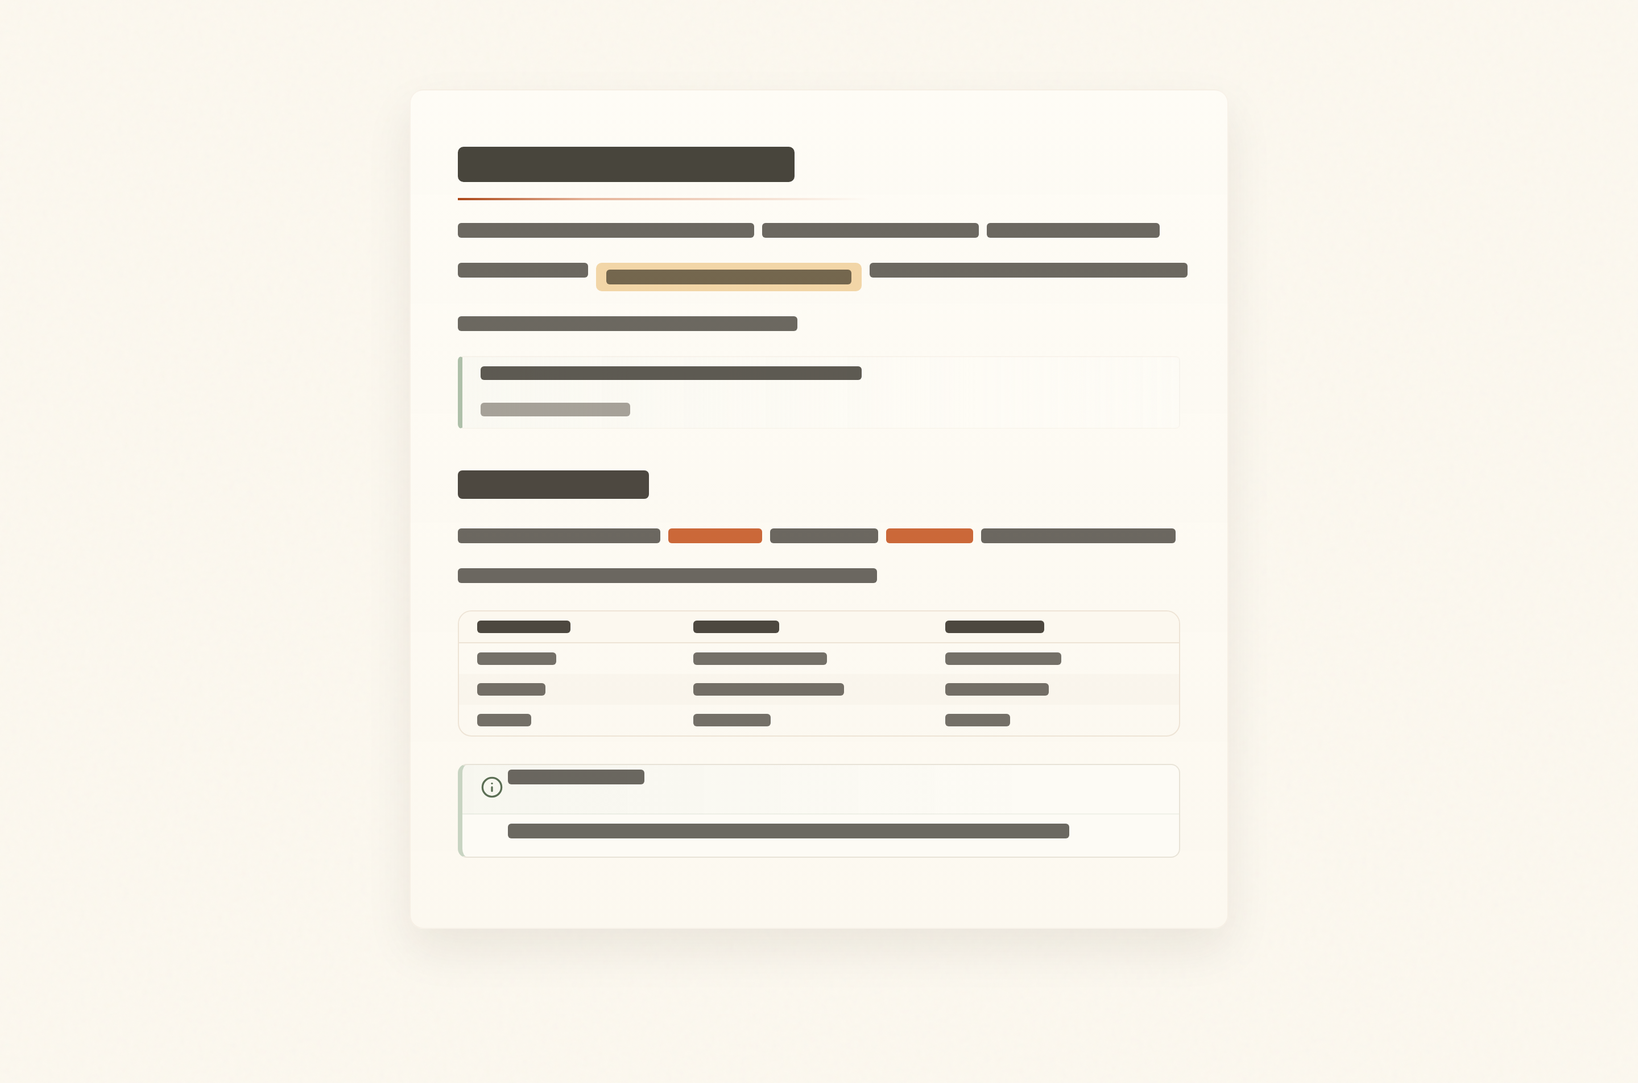
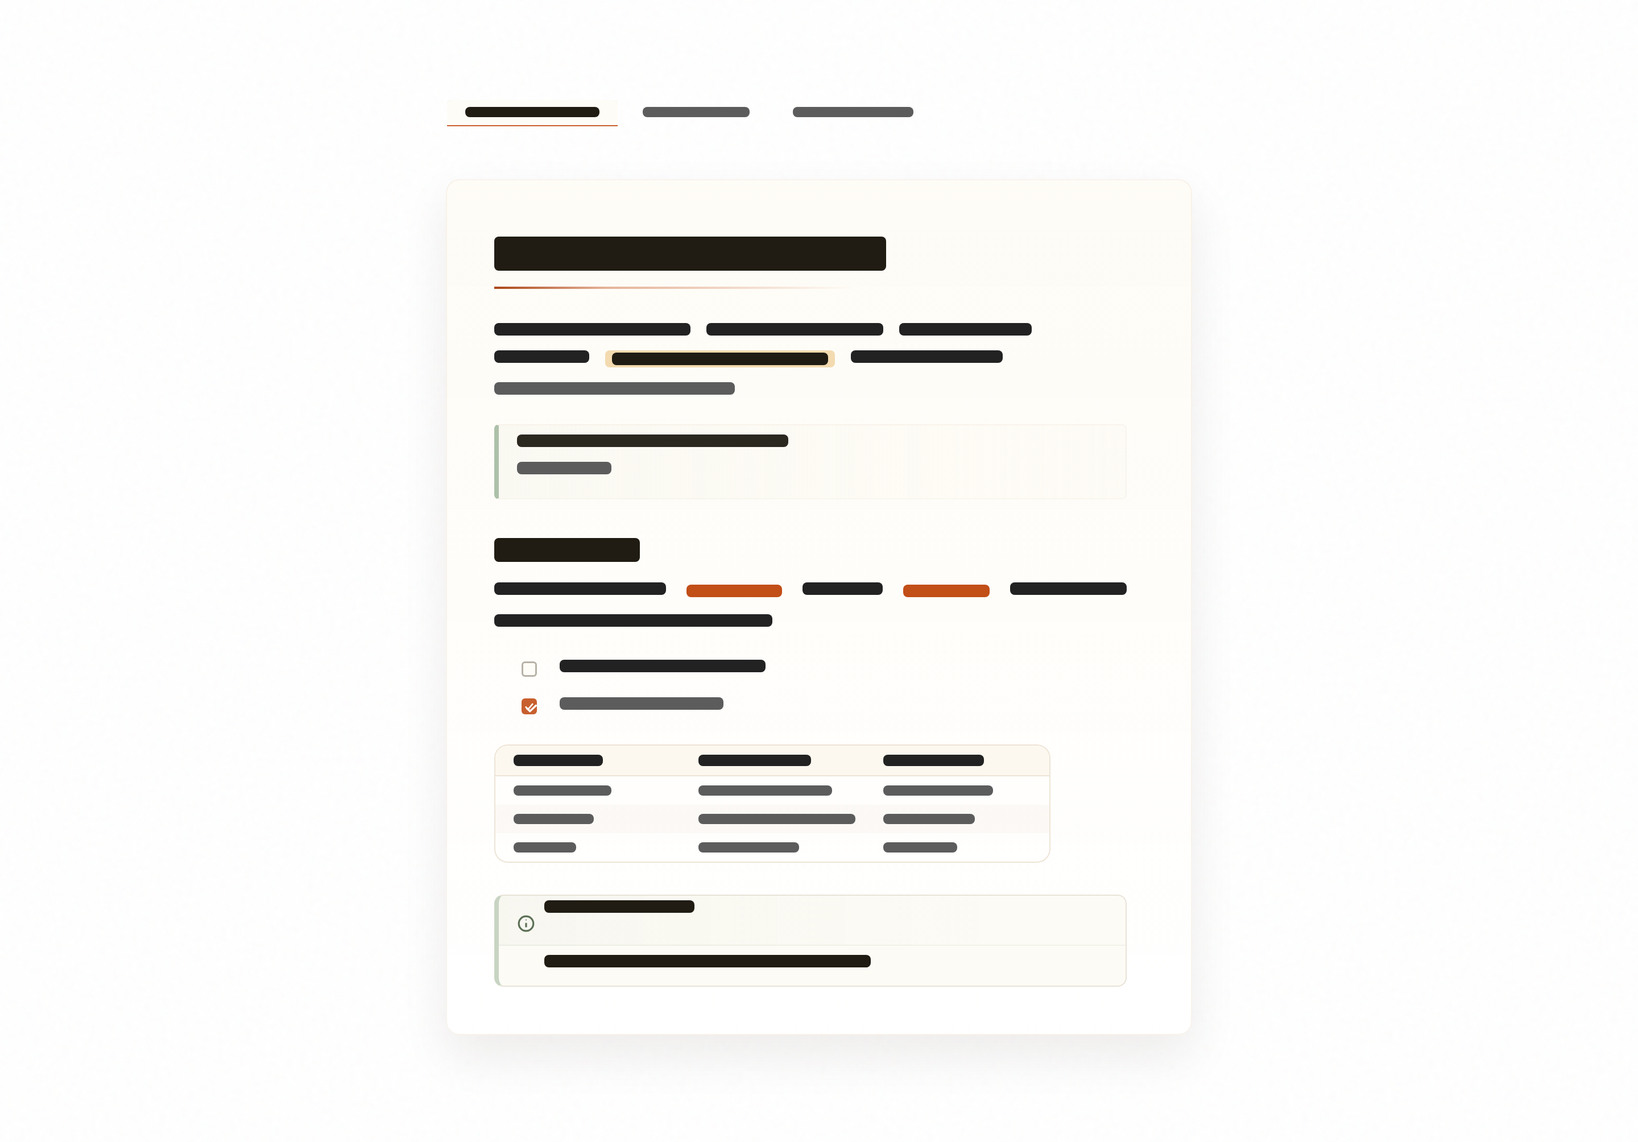
assets: refresh store artwork set
- screenshot.png: regenerated reading-view cover with current 0.13 materials
  (abstract bars, no text - privacy rule unchanged)
- img/brand-banner-1200x800.png + generator: 3:2 brand banner for the
  community site listing (ink wordmark panel + app wireframe, dark tokens
  sampled from the theme itself)
- img/mobile-900x1600.png + generator: 9:16 full-bleed phone screen
  (brand band, long paper, floating navbar)
- generators live next to the masters so future refreshes are one edit
  away; all three render from src/theme.css + core app.css

Changed region(s): [[0.2812, 0.093, 0.7188, 0.8057], [0.25, 0.8367, 0.75, 0.8986]]

diff --git a/img/mobile-generator.html b/img/mobile-generator.html
@@ -1,0 +1,134 @@
+<!doctype html><html class="theme-light"><head><meta charset="utf-8">
+<style>
+  html, body { margin: 0; }
+  body { --font-text-theme: '??'; --font-text-override: '??'; --font-default: sans-serif;
+         --font-text: var(--font-text-override), var(--font-text-theme), var(--font-default);
+         --font-text-size: 16px; }
+  .stage { width: 900px; height: 1600px; position: relative; overflow: hidden;
+           background: var(--background-secondary); }
+  .bar { border-radius: 6px; background: currentColor; }
+  /* brand band */
+  .band { position: absolute; top: 0; left: 0; right: 0; height: 168px;
+          background: rgb(32, 28, 19); color: rgb(252, 248, 239);
+          padding: 30px 40px 0; box-sizing: border-box; }
+  .status { position: absolute; top: 22px; left: 44px; right: 44px; display: flex;
+            justify-content: space-between; }
+  .schip { height: 9px; border-radius: 5px; background: rgba(252, 248, 239, 0.4); }
+  .wordrow { display: flex; align-items: center; justify-content: space-between; margin-top: 34px; }
+  .wordmark { font-family: var(--font-headings, serif); font-weight: var(--font-semibold, 600);
+              font-size: 40px; letter-spacing: -0.01em; }
+  .dots { display: flex; gap: 10px; align-items: center; }
+  .dot { width: 11px; height: 11px; border-radius: 50%; }
+  /* paper */
+  .paper { position: absolute; left: 18px; right: 18px; top: 192px; bottom: -20px;
+           background: var(--background-primary); border-radius: 14px 14px 0 0;
+           border: 1px solid color-mix(in srgb, var(--paper-frame-border) 40%, transparent);
+           border-bottom: 0; padding: 46px 42px; box-sizing: border-box;
+           box-shadow: 0 10px 26px rgba(28, 24, 19, 0.08); }
+  .grp { margin-bottom: 52px; }
+  .row { display: flex; gap: 16px; margin-bottom: 18px; }
+  .b { height: 14px; }
+  .blk { height: 34px; border-radius: 8px; }
+  .task { display: flex; align-items: center; gap: 17px; margin-bottom: 19px; }
+  .chip { width: 23px; height: 23px; border-radius: 7px; flex: none;
+          border: 1.5px solid color-mix(in srgb, var(--border-strong-1) 72%, transparent); }
+  .chip.on { background: var(--interactive-accent); border-color: var(--interactive-accent); }
+  .bcard { border: 1px solid color-mix(in srgb, var(--paper-frame-border) 64%, transparent);
+           border-left: 5px solid color-mix(in srgb, rgb(var(--color-secondary-rgb)) 55%, transparent);
+           border-radius: 12px; background: color-mix(in srgb, var(--panel-surface) 95%, transparent);
+           padding: 22px 26px; }
+  mark { background-color: var(--highlight); color: var(--scrip-ink-strong); border-radius: 6px; padding: 4px 9px; }
+  /* navbar floats over content */
+  .navbar { position: absolute; left: 18px; right: 18px; bottom: 26px; height: 76px;
+            background: var(--layer-1); border-radius: 38px;
+            border: 1px solid color-mix(in srgb, var(--paper-frame-border) 45%, transparent);
+            box-shadow: 0 10px 26px rgba(28, 24, 19, 0.16);
+            display: flex; align-items: center; justify-content: space-around; padding: 0 30px; }
+  .nb { width: 24px; height: 24px; border-radius: 8px; background: var(--text-muted); opacity: 0.75; }
+  .nb.active { background: var(--interactive-accent); opacity: 1; }
+</style>
+<link rel="stylesheet" href="file:///C:/Users/louxi/AppData/Local/Temp/cover/app.css">
+<link rel="stylesheet" href="file:///C:/Users/louxi/Documents/github/obsidian-scriptorium/src/theme.css">
+</head><body class="show-inline-title">
+<div class="stage">
+  <div class="band">
+    <div class="status">
+      <div class="schip" style="width: 74px;"></div>
+      <div style="display: flex; gap: 12px;">
+        <div class="schip" style="width: 24px;"></div>
+        <div class="schip" style="width: 40px;"></div>
+      </div>
+    </div>
+    <div class="wordrow">
+      <div class="wordmark">Scriptorium</div>
+      <div class="dots">
+        <div class="dot" style="background: var(--interactive-accent);"></div>
+        <div class="dot" style="background: rgb(var(--color-secondary-rgb));"></div>
+        <div class="dot" style="background: rgb(227, 163, 59);"></div>
+      </div>
+    </div>
+  </div>
+  <div class="paper">
+    <div class="grp" style="margin-bottom: 40px;">
+      <div class="bar blk" style="width: 76%; background: var(--scrip-ink-strong);"></div>
+    </div>
+    <div class="grp">
+      <div class="row"><div class="bar b" style="width: 44%;"></div><div class="bar b" style="width: 36%;"></div></div>
+      <div class="row" style="margin-bottom: 0;"><div class="bar b" style="width: 58%; background: var(--text-muted);"></div></div>
+    </div>
+    <div class="grp">
+      <div class="row"><div class="bar b" style="width: 24%;"></div><mark><div class="bar b" style="width: 140px; background: var(--scrip-ink-strong);"></div></mark></div>
+      <div class="row" style="margin-bottom: 0;"><div class="bar b" style="width: 52%; background: var(--text-muted);"></div></div>
+    </div>
+    <div class="bcard">
+      <div class="row" style="margin-bottom: 16px;"><div class="bar b" style="width: 62%;"></div></div>
+      <div class="row" style="margin-bottom: 0;"><div class="bar b" style="width: 38%; background: var(--text-muted);"></div></div>
+    </div>
+    <div class="grp" style="margin-top: 52px;">
+      <div class="task"><div class="chip"></div><div class="bar b" style="width: 48%;"></div></div>
+      <div class="task" style="margin-bottom: 0;"><div class="chip on"></div><div class="bar b" style="width: 38%; background: var(--text-muted);"></div></div>
+    </div>
+    <div class="grp">
+      <div class="row"><div class="bar b" style="width: 40%;"></div><div class="bar b" style="width: 30%;"></div></div>
+      <div class="row" style="margin-bottom: 0;"><div class="bar b" style="width: 52%; background: var(--text-muted);"></div></div>
+    </div>
+    <div class="grp">
+      <div class="row"><div class="bar b" style="width: 34%;"></div></div>
+      <div class="row" style="margin-bottom: 0;"><div class="bar b" style="width: 56%; background: var(--text-muted);"></div></div>
+    </div>
+    <div class="grp">
+      <div class="row"><div class="bar b" style="width: 30%;"></div><div class="bar b" style="width: 38%;"></div></div>
+      <div class="row" style="margin-bottom: 0;"><div class="bar b" style="width: 54%; background: var(--text-muted);"></div></div>
+    </div>
+    <div class="grp" style="margin-bottom: 52px;">
+      <div class="bcard" style="border-left-color: color-mix(in srgb, rgb(var(--color-secondary-rgb)) 55%, transparent);">
+      <div class="row" style="margin-bottom: 0;"><div class="bar b" style="width: 58%;"></div></div>
+      </div>
+    </div>
+    <div class="grp">
+      <div class="row"><div class="bar b" style="width: 26%;"></div><div class="bar b" style="width: 40%;"></div></div>
+      <div class="row" style="margin-bottom: 0;"><div class="bar b" style="width: 48%; background: var(--text-muted);"></div></div>
+    </div>
+    <div class="grp">
+      <div class="row"><div class="bar b" style="width: 42%;"></div></div>
+      <div class="row" style="margin-bottom: 0;"><div class="bar b" style="width: 56%; background: var(--text-muted);"></div></div>
+    </div>
+    <div class="grp">
+      <div class="row"><div class="bar b" style="width: 36%;"></div><div class="bar b" style="width: 28%;"></div></div>
+      <div class="row" style="margin-bottom: 0;"><div class="bar b" style="width: 50%; background: var(--text-muted);"></div></div>
+    </div>
+    <div class="grp" style="margin-bottom: 0;">
+      <div class="row"><div class="bar b" style="width: 44%;"></div></div>
+      <div class="row" style="margin-bottom: 0;"><div class="bar b" style="width: 30%; background: var(--text-muted);"></div></div>
+    </div>
+    </div>
+  </div>
+  <div class="navbar">
+    <div class="nb" style="border-radius: 50%; border: 1.5px solid var(--text-muted); background: transparent;"></div>
+    <div class="nb"></div>
+    <div class="nb active" style="border-radius: 50%;"></div>
+    <div class="nb"></div>
+    <div class="nb" style="border-radius: 50%; border: 1.5px solid var(--text-muted); background: transparent;"></div>
+  </div>
+</div>
+</body></html>

diff --git a/img/brand-banner-generator.html b/img/brand-banner-generator.html
@@ -1,0 +1,112 @@
+<!doctype html><html class="theme-light"><head><meta charset="utf-8">
+<style>
+  html, body { margin: 0; }
+  body { --font-text-theme: '??'; --font-text-override: '??'; --font-default: sans-serif;
+         --font-text: var(--font-text-override), var(--font-text-theme), var(--font-default);
+         --font-text-size: 14px; }
+  .stage { width: 1200px; height: 800px; position: relative; overflow: hidden; }
+  .bar { border-radius: 5px; background: currentColor; }
+  .panel { position: absolute; inset: 0 770px 0 0; padding: 64px 52px; box-sizing: border-box;
+           display: flex; flex-direction: column; background: rgb(32, 28, 19); color: rgb(252, 248, 239); }
+  .tagline { font-family: var(--font-interface, sans-serif); font-size: 10.5px; letter-spacing: 0.18em;
+             text-transform: uppercase; opacity: 0.55; }
+  .wordmark { font-family: var(--font-headings, serif); font-weight: var(--font-semibold, 600);
+              font-size: 54px; line-height: 1.05; margin-top: 16px; letter-spacing: -0.01em; }
+  .rule { width: 88px; height: 3px; margin-top: 24px; border-radius: 2px;
+          background-image: var(--scrip-editorial-rule-strong); background-size: 100% 100%; }
+  .dots { margin-top: auto; display: flex; gap: 10px; align-items: center; }
+  .dot { width: 11px; height: 11px; border-radius: 50%; }
+  .vers { font-family: var(--font-interface, sans-serif); font-size: 11px; opacity: 0.55; margin-left: 6px; }
+  .win { position: absolute; left: 470px; top: 120px; width: 700px; height: 560px;
+         border-radius: 12px; overflow: hidden; display: flex;
+         background: var(--background-primary);
+         border: 1px solid color-mix(in srgb, var(--paper-frame-border) 55%, transparent);
+         box-shadow: 0 30px 70px rgba(28, 24, 19, 0.26), 0 4px 14px rgba(28, 24, 19, 0.10); }
+  .side { width: 176px; flex: none; padding: 14px 10px; box-sizing: border-box;
+          background: var(--background-secondary);
+          border-right: 1px solid color-mix(in srgb, var(--paper-frame-border) 30%, transparent); }
+  .tree { display: flex; align-items: center; gap: 8px; padding: 5px 9px; border-radius: 5px; margin-bottom: 3px; }
+  .tree.active { background: var(--background-modifier-hover); }
+  .tw { width: 7px; height: 7px; border-radius: 2px; background: var(--text-faint); flex: none; }
+  .main { flex: 1; display: flex; flex-direction: column; min-width: 0; }
+  .tabs { display: flex; gap: 4px; padding: 7px 12px 0; align-items: flex-end; flex: none; }
+  .btab { position: relative; padding: 6px 15px 8px; border-radius: 7px 7px 0 0; }
+  .btab.active { background: var(--layer-1); }
+  .btab.active::after { content: ""; position: absolute; left: 0; right: 0; bottom: 0; height: 2px;
+                border-radius: 2px; background: var(--interactive-accent); }
+  .note { flex: 1; padding: 42px 48px; box-sizing: border-box; }
+  .grp { margin-bottom: 42px; }
+  .row { display: flex; gap: 13px; margin-bottom: 13px; }
+  .b { height: 10px; }
+  .blk { height: 13px; border-radius: 5px; }
+  .task { display: flex; align-items: center; gap: 12px; margin-bottom: 12px; }
+  .chip { width: 15px; height: 15px; border-radius: 5px; flex: none;
+          border: 1.5px solid color-mix(in srgb, var(--border-strong-1) 72%, transparent); }
+  .chip.on { background: var(--interactive-accent); border-color: var(--interactive-accent); }
+  .bcard { border: 1px solid color-mix(in srgb, var(--paper-frame-border) 64%, transparent);
+             border-left: 4px solid color-mix(in srgb, rgb(var(--color-secondary-rgb)) 28%, transparent);
+             border-radius: 8px; background: color-mix(in srgb, var(--panel-surface) 95%, transparent);
+             padding: 12px 16px; }
+  .co-row { display: flex; align-items: center; gap: 10px; margin-bottom: 10px; }
+  .co-ic { width: 14px; height: 14px; border-radius: 50%; border: 1.5px solid rgb(var(--color-secondary-rgb)); flex: none; }
+</style>
+<link rel="stylesheet" href="file:///C:/Users/louxi/AppData/Local/Temp/cover/app.css">
+<link rel="stylesheet" href="file:///C:/Users/louxi/Documents/github/obsidian-scriptorium/src/theme.css">
+</head><body>
+<div class="stage">
+  <div class="panel">
+    <div class="tagline">A quiet desk for long thoughts</div>
+    <div class="wordmark">Scriptorium</div>
+    <div class="rule"></div>
+    <div class="dots">
+      <div class="dot" style="background: var(--interactive-accent);"></div>
+      <div class="dot" style="background: rgb(var(--color-secondary-rgb));"></div>
+      <div class="dot" style="background: rgb(227, 163, 59);"></div>
+      <div class="vers">light &amp; dark · free · MIT</div>
+    </div>
+  </div>
+  <div class="win">
+    <div class="side">
+      <div class="tree active"><div class="tw"></div><div class="bar" style="width: 104px; height: 9px; background: var(--text-primary);"></div></div>
+      <div class="tree"><div class="tw"></div><div class="bar" style="width: 80px; height: 9px; background: var(--text-muted);"></div></div>
+      <div class="tree"><div class="tw"></div><div class="bar" style="width: 92px; height: 9px; background: var(--text-muted);"></div></div>
+      <div class="tree"><div class="tw"></div><div class="bar" style="width: 68px; height: 9px; background: var(--text-muted);"></div></div>
+    </div>
+    <div class="main">
+      <div class="tabs">
+        <div class="btab active"><div class="bar" style="width: 96px; height: 8px; background: var(--text-primary);"></div></div>
+        <div class="btab"><div class="bar" style="width: 78px; height: 8px; background: var(--text-muted);"></div></div>
+      </div>
+      <div class="note">
+        <div class="grp" style="margin-bottom: 26px;">
+          <div class="bar blk" style="width: 56%; background: var(--scrip-ink-strong);"></div>
+        </div>
+        <div class="grp">
+          <div class="row"><div class="bar b" style="width: 30%;"></div><div class="bar b" style="width: 26%;"></div></div>
+          <div class="row"><div class="bar b" style="width: 14%;"></div><div class="bar b" style="width: 20%; background: var(--scrip-ink-strong); box-shadow: 0 0 0 4px var(--highlight);"></div><div class="bar b" style="width: 24%;"></div></div>
+          <div class="row" style="margin-bottom: 0;"><div class="bar b" style="width: 40%; background: var(--text-muted);"></div></div>
+        </div>
+        <div class="grp" style="display: flex;">
+          <div style="width: 4px; border-radius: 3px; background: color-mix(in srgb, rgb(var(--color-secondary-rgb)) 55%, transparent); flex: none;"></div>
+          <div style="padding: 2px 0 0 16px; flex: 1;">
+            <div class="row" style="margin-bottom: 10px;"><div class="bar b" style="width: 44%;"></div></div>
+            <div class="row" style="margin-bottom: 0;"><div class="bar b" style="width: 15%; background: var(--text-muted);"></div></div>
+          </div>
+        </div>
+        <div class="grp">
+          <div class="row"><div class="bar b" style="width: 24%;"></div><div class="bar b" style="width: 34%;"></div></div>
+          <div class="row" style="margin-bottom: 0;"><div class="bar b" style="width: 42%; background: var(--text-muted);"></div></div>
+        </div>
+        <div class="grp">
+          <div class="task"><div class="chip"></div><div class="bar b" style="width: 34%;"></div></div>
+          <div class="task" style="margin-bottom: 0;"><div class="chip on"></div><div class="bar b" style="width: 27%; background: var(--text-muted);"></div></div>
+        </div>
+        <div class="bcard">
+          <div class="co-row"><div class="bar" style="width: 118px; height: 9px; background: var(--scrip-ink-strong);"></div></div>
+          <div class="row" style="margin-bottom: 0;"><div class="bar b" style="width: 56%; background: var(--text-muted);"></div></div>
+        </div>
+      </div>
+    </div>
+  </div>
+</div>
+</body></html>

diff --git a/img/cover-generator.html b/img/cover-generator.html
@@ -1,0 +1,68 @@
+<!doctype html><html class="theme-light"><head><meta charset="utf-8">
+<style>
+  html, body { margin: 0; }
+  body {
+    --font-text-theme: '??'; --font-text-override: '??'; --font-default: sans-serif;
+    --font-text: var(--font-text-override), var(--font-text-theme), var(--font-default);
+    --font-text-size: 16px;
+  }
+  .stage { width: 1440px; height: 1004px; padding-top: 88px; box-sizing: border-box; }
+  .col { width: 656px; margin: 0 auto; }
+  .tabs { display: flex; gap: 4px; align-items: flex-end; margin-bottom: 12px; }
+  .tab { padding: 6px 16px 8px; border-radius: 8px 8px 0 0; }
+  .bar { border-radius: 4px; background: currentColor; }
+  .b-row { display: flex; gap: 14px; margin: 0 0 13px; }
+  .b { height: 11px; }
+  .task-row { display: flex; align-items: center; gap: 12px; }
+  .task-list-item-checkbox { position: static; }
+</style>
+<style>* { transition: none !important; animation: none !important; }</style><style>mark { background-color: var(--highlight); color: var(--scrip-ink-strong); border-radius: 3px; padding: 1px 4px; }</style>
+<link rel="stylesheet" href="file:///C:/Users/louxi/AppData/Local/Temp/cover/app.css">
+<link rel="stylesheet" href="file:///C:/Users/louxi/Documents/github/obsidian-scriptorium/src/theme.css">
+</head><body class="show-inline-title">
+<div class="stage"><div class="workspace">
+  <div class="col">
+    <div class="tabs">
+      <div class="workspace-tab-header is-active tab"><div class="bar" style="width: 118px; height: 9px; background: var(--text-primary);"></div></div>
+      <div class="workspace-tab-header tab"><div class="bar" style="width: 94px; height: 9px; background: var(--text-muted);"></div></div>
+      <div class="workspace-tab-header tab"><div class="bar" style="width: 106px; height: 9px; background: var(--text-muted);"></div></div>
+    </div>
+    <div class="markdown-reading-view"><div class="markdown-preview-view">
+      <div class="inline-title"><div class="bar" style="width: 62%; height: 30px; background: var(--scrip-ink-strong);"></div></div>
+
+      <div style="margin-top: 30px;">
+        <div class="b-row"><div class="bar b" style="width: 31%;"></div><div class="bar b" style="width: 28%;"></div><div class="bar b" style="width: 21%;"></div></div>
+        <div class="b-row"><div class="bar b" style="width: 15%;"></div><mark style="padding: 2px 6px; border-radius: 4px;"><div class="bar b" style="width: 190px; background: var(--scrip-ink-strong);"></div></mark><div class="bar b" style="width: 24%;"></div></div>
+        <div class="b-row"><div class="bar b" style="width: 38%; background: var(--text-muted);"></div></div>
+      </div>
+
+      <blockquote style="margin: 26px 0;"><div class="b-row"><div class="bar b" style="width: 46%;"></div></div><div class="b-row"><div class="bar b" style="width: 16%; background: var(--text-muted);"></div></div></blockquote>
+
+      <h2 style="margin: 34px 0 18px;"><div class="bar" style="width: 23%; height: 21px; background: var(--scrip-ink-strong);"></div></h2>
+
+      <div class="b-row"><div class="bar b" style="width: 28%;"></div><a class="internal-link" style="padding: 2px 4px;"><div class="bar b" style="width: 84px;"></div></a><div class="bar b" style="width: 13%;"></div><a class="internal-link" style="padding: 2px 4px;"><div class="bar b" style="width: 76px;"></div></a><div class="bar b" style="width: 19%;"></div></div>
+      <div class="b-row"><div class="bar b" style="width: 44%;"></div></div>
+
+      <ul style="margin: 24px 0; padding-left: 24px; list-style: none;">
+        <li class="task-list-item" style="list-style: none; margin-bottom: 12px;"><div class="task-row"><input type="checkbox" class="task-list-item-checkbox"><div class="bar b" style="width: 34%;"></div></div></li>
+        <li class="task-list-item" style="list-style: none;"><div class="task-row"><input type="checkbox" class="task-list-item-checkbox" checked><div class="bar b" style="width: 27%; background: var(--text-muted);"></div></div></li>
+      </ul>
+
+      <table style="width: 88%; margin: 26px 0;">
+        <thead><tr><th><div class="bar" style="width: 60%; height: 10px;"></div></th><th><div class="bar" style="width: 76%; height: 10px;"></div></th><th><div class="bar" style="width: 68%; height: 10px;"></div></th></tr></thead>
+        <tbody>
+          <tr><td><div class="bar" style="width: 66%; height: 9px; background: var(--text-muted);"></div></td><td><div class="bar" style="width: 90%; height: 9px; background: var(--text-muted);"></div></td><td><div class="bar" style="width: 74%; height: 9px; background: var(--text-muted);"></div></td></tr>
+          <tr><td><div class="bar" style="width: 54%; height: 9px; background: var(--text-muted);"></div></td><td><div class="bar" style="width: 106%; height: 9px; background: var(--text-muted); overflow: hidden;"></div></td><td><div class="bar" style="width: 62%; height: 9px; background: var(--text-muted);"></div></td></tr>
+          <tr><td><div class="bar" style="width: 42%; height: 9px; background: var(--text-muted);"></div></td><td><div class="bar" style="width: 68%; height: 9px; background: var(--text-muted);"></div></td><td><div class="bar" style="width: 50%; height: 9px; background: var(--text-muted);"></div></td></tr>
+        </tbody>
+      </table>
+
+      <div class="callout" data-callout="note" style="margin: 28px 0 0;">
+        <div class="callout-title"><div class="callout-icon"><svg width="16" height="16" viewBox="0 0 16 16" fill="none" stroke="currentColor" stroke-width="1.6"><circle cx="8" cy="8" r="6.4"/><line x1="8" y1="7.4" x2="8" y2="11.2"/><circle cx="8" cy="4.8" r="0.5" fill="currentColor" stroke="none"/></svg></div><div class="callout-title-inner"><div class="bar" style="width: 132px; height: 11px;"></div></div></div>
+        <div class="callout-content"><div class="b-row" style="margin-bottom: 0;"><div class="bar b" style="width: 58%;"></div></div>
+      </div>
+
+    </div></div>
+  </div>
+</div></div>
+</body></html>
